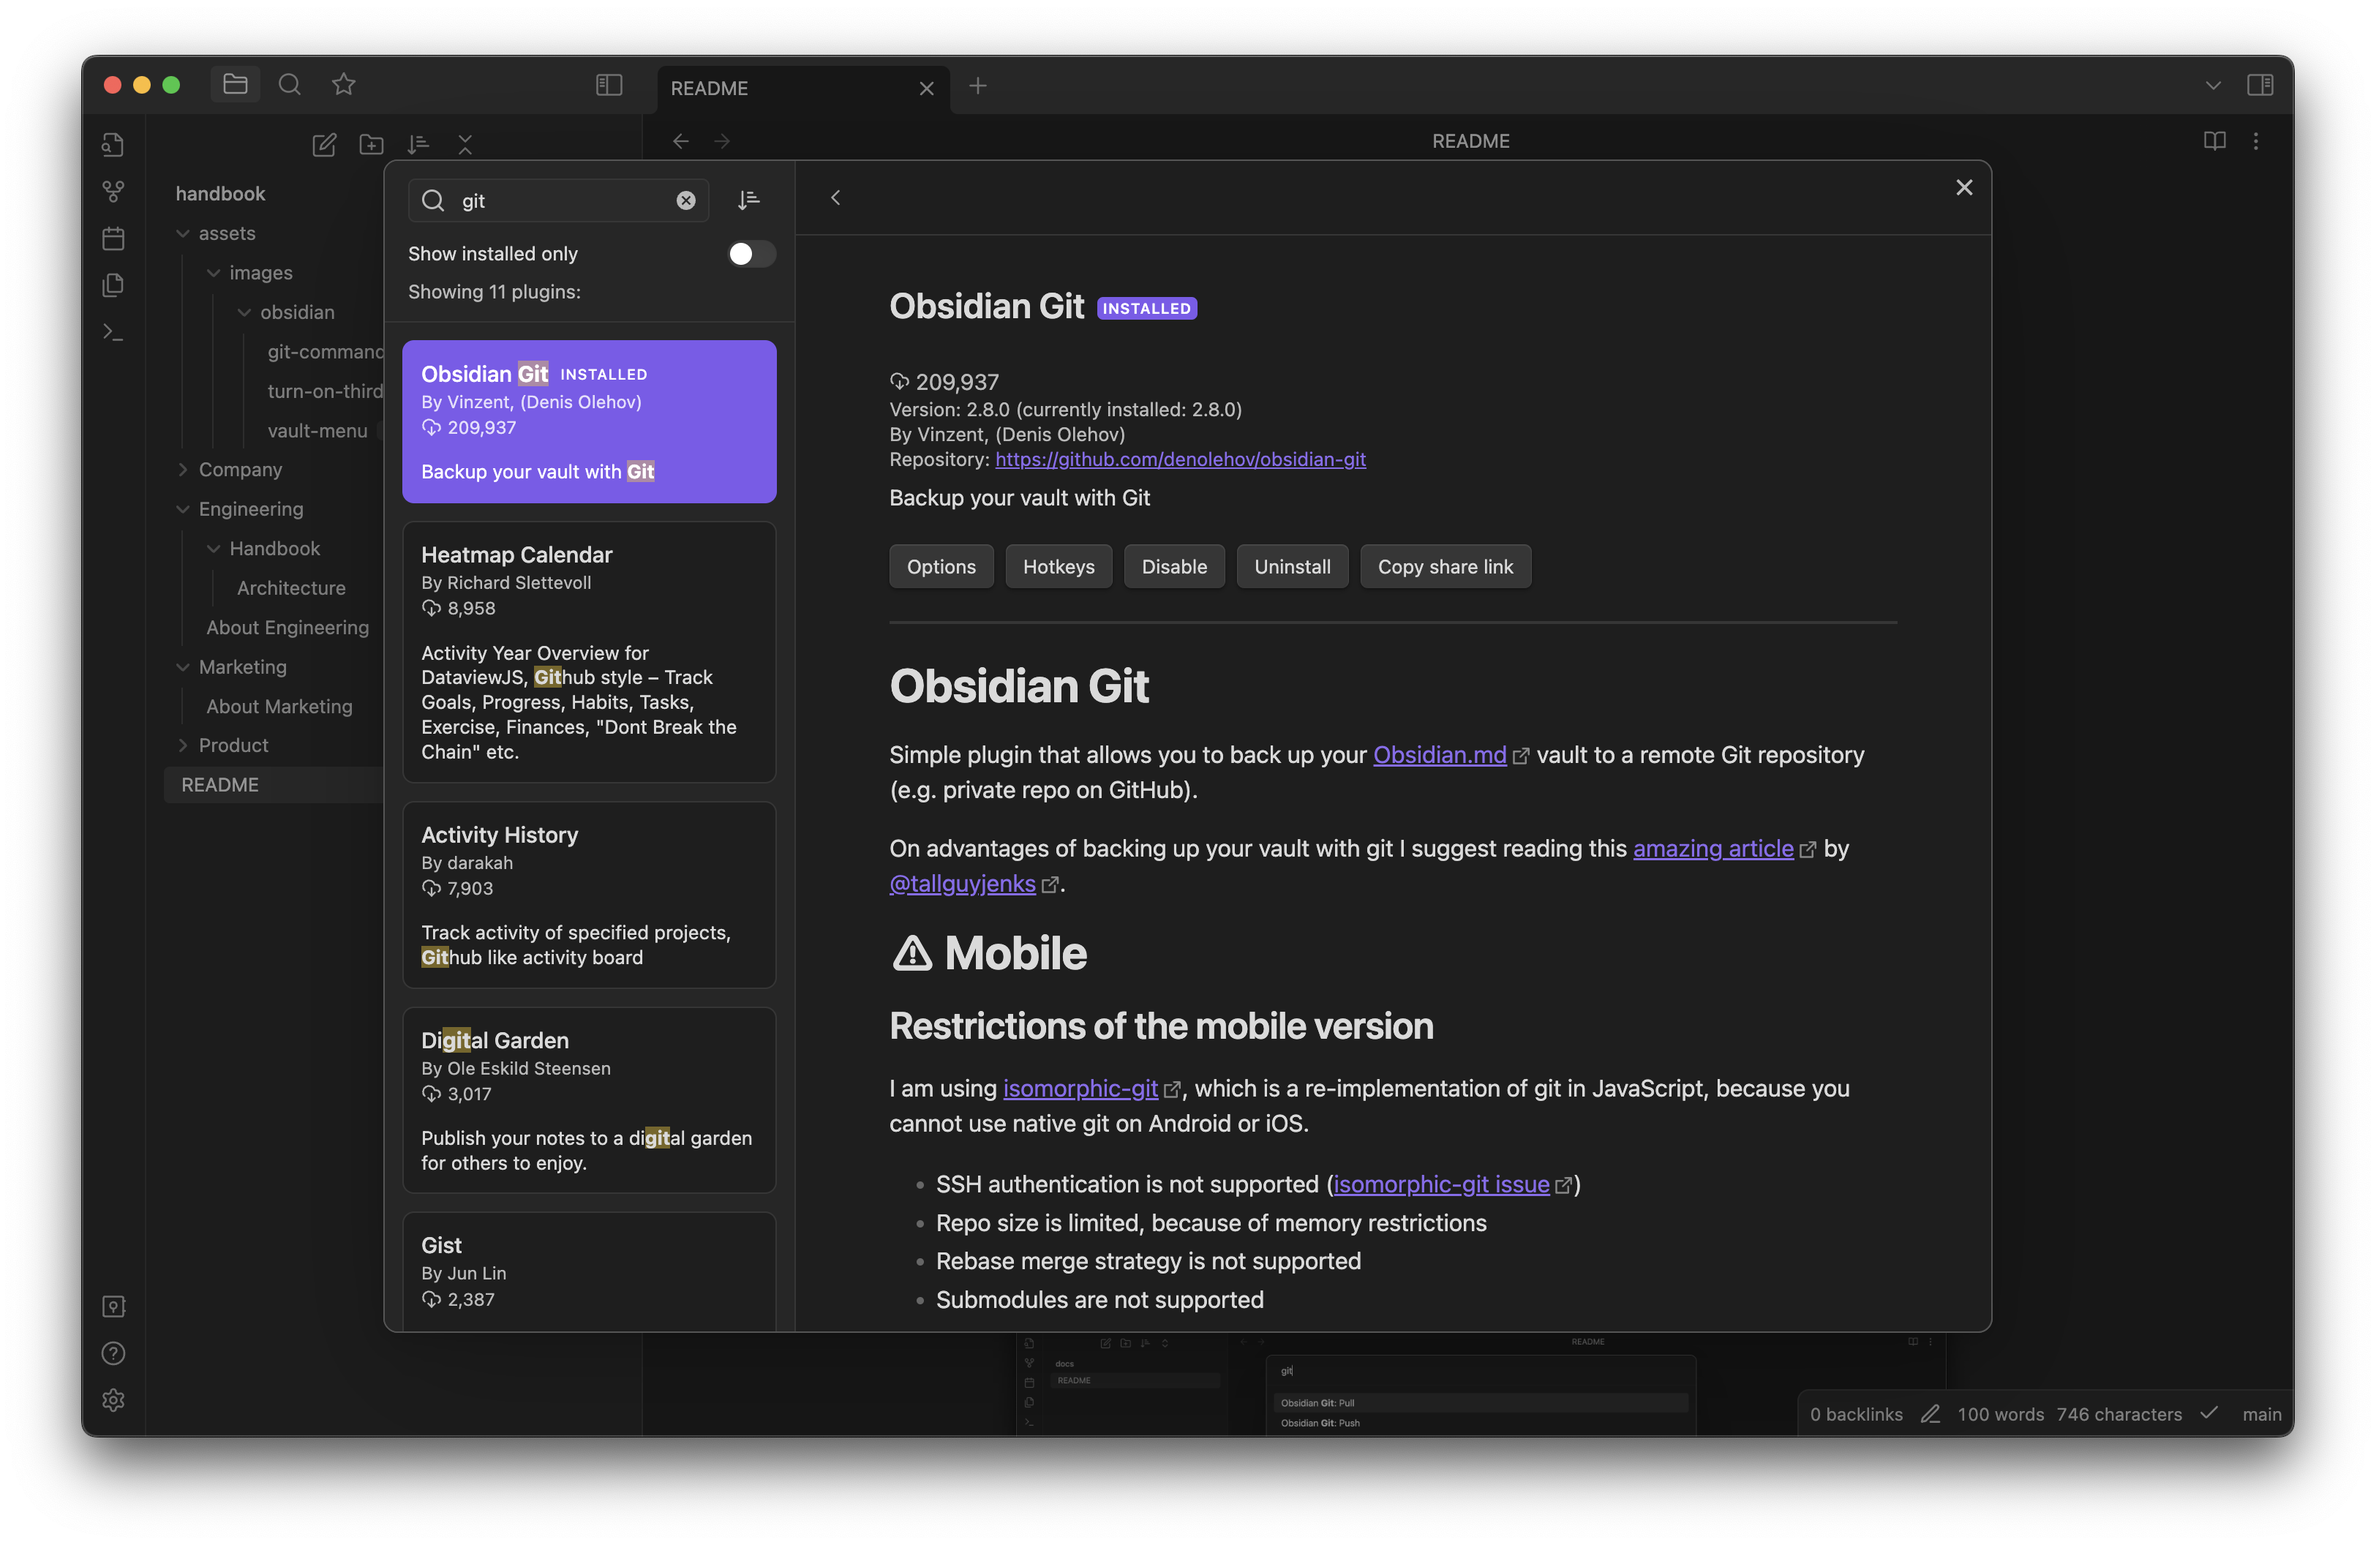
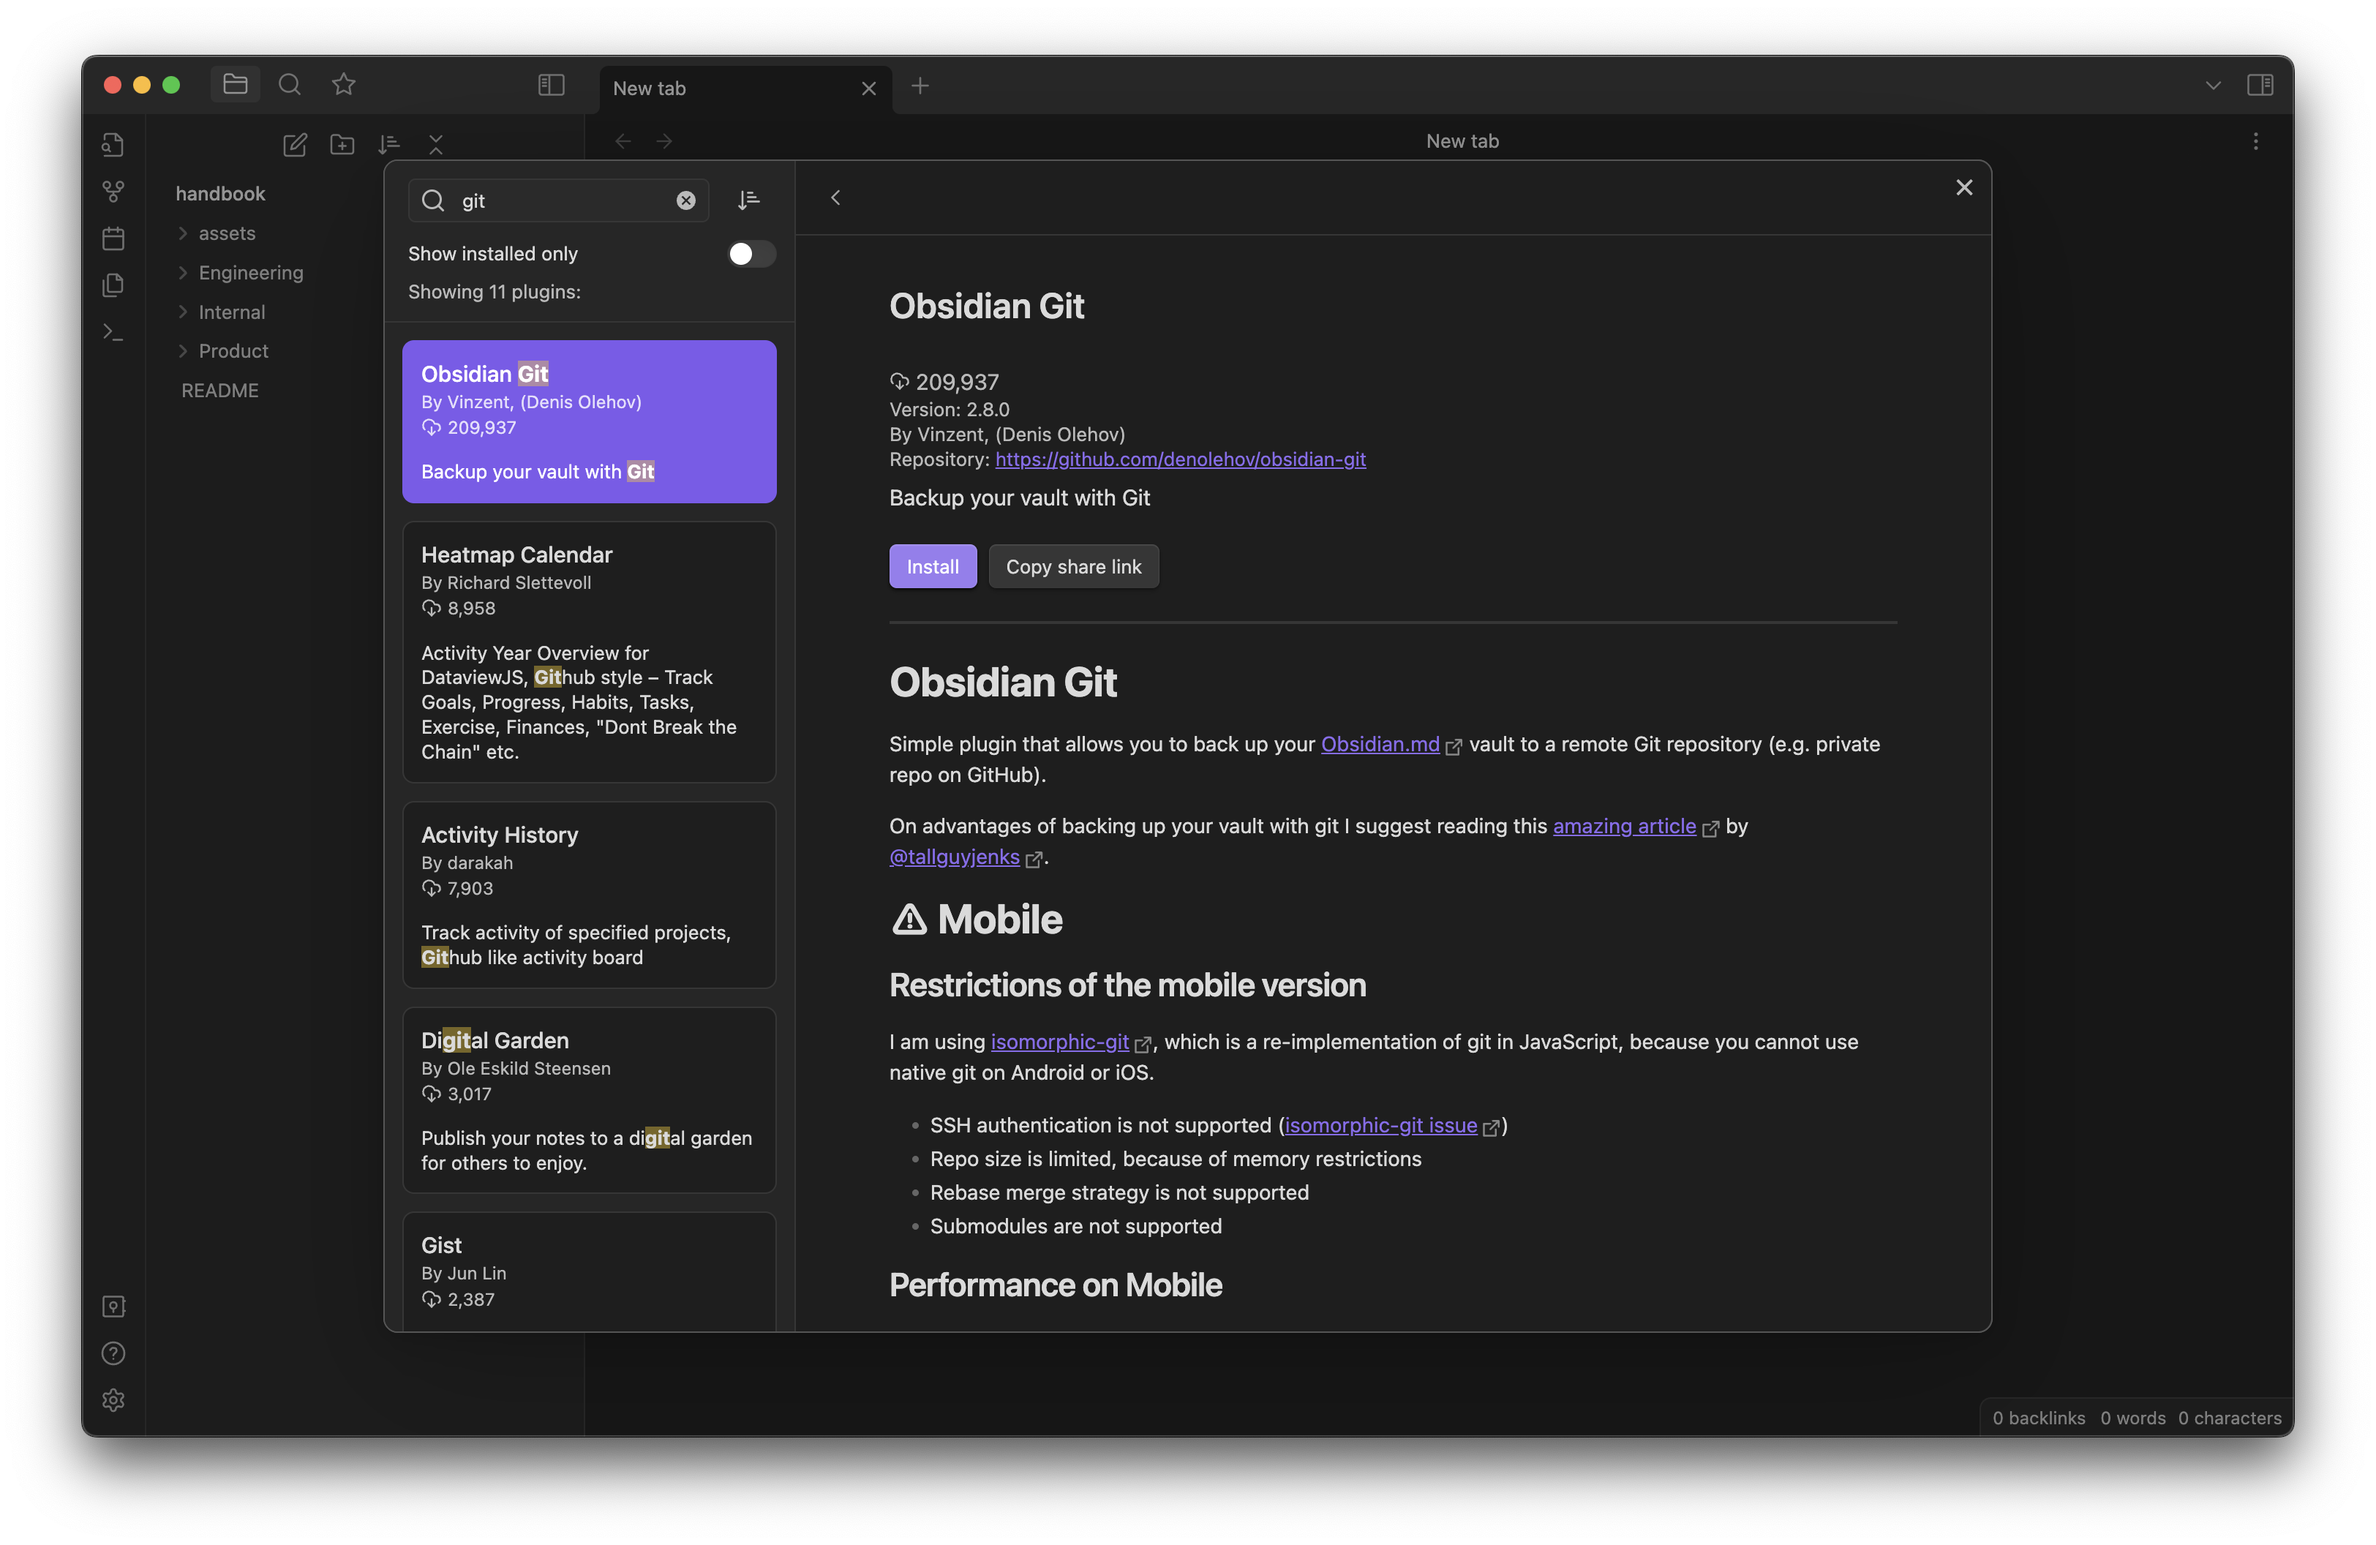
vault backup: 2022-10-21 00:50:18

diff --git a/packages/handbook/README.md b/packages/handbook/README.md
@@ -6,29 +6,24 @@ All our knowledge in one place.
 
 #### macOS
 ```sh
-brew install gh
 brew install obsidian
 ```
 
-```sh
-gh repo clone diptools/handbook
-```
 
 ## Setup
 
 ### Open Vault
 1. Start Obsidian app
 2. Click "Open folder as vault" -> "Open"
-3. Select `diptools/handbook` repo
+3. Select `packages/handbook` directory
 
 ![Obsidian vault menu](./assets/images/obsidian/vault-menu.png)
 ### obsidian-git plugin
 1. Open "Settings" (`⌘ + ,`) -> "Options" -> "Community Plugins" -> "Turn on community plugins"
-	![Enable third party plugin](./assets/images/obsidian/turn-on-third-party-plugins.png)
+	 - ![Enable third party plugin](./assets/images/obsidian/community-plugins.png)   
 2. Click "Community plugins" -> "Browse"
-3. Search for "Obsidian Git"
-	![Obsidian Git Plugin](./assets/images/obsidian/obsidian-git-plugin.png)
-4. Click "Install" and "Enable"
+3. Click "Install" and "Enable"
+	- ![Obsidian Git Plugin](./assets/images/obsidian/obsidian-git-plugin.png)
 
 ### Pull / Commit / Push
 1. Press command `⌘ + P`

diff --git a/packages/handbook/Engineering/Handbook/Architecture.md b/packages/handbook/Engineering/Handbook/Architecture.md
@@ -27,7 +27,7 @@
 ### Implementation steps
 1. prepare dip repo for new submodule
 	1. mkdir `packages/handbook`
-	2. mkdir `packages/handbook/private`
-2. create new repo `handbook-private`
+	2. mkdir `packages/handbook/internal`
+2. create new repo `handbook-internal`
 	1. same directory structure as public one
 3. 
